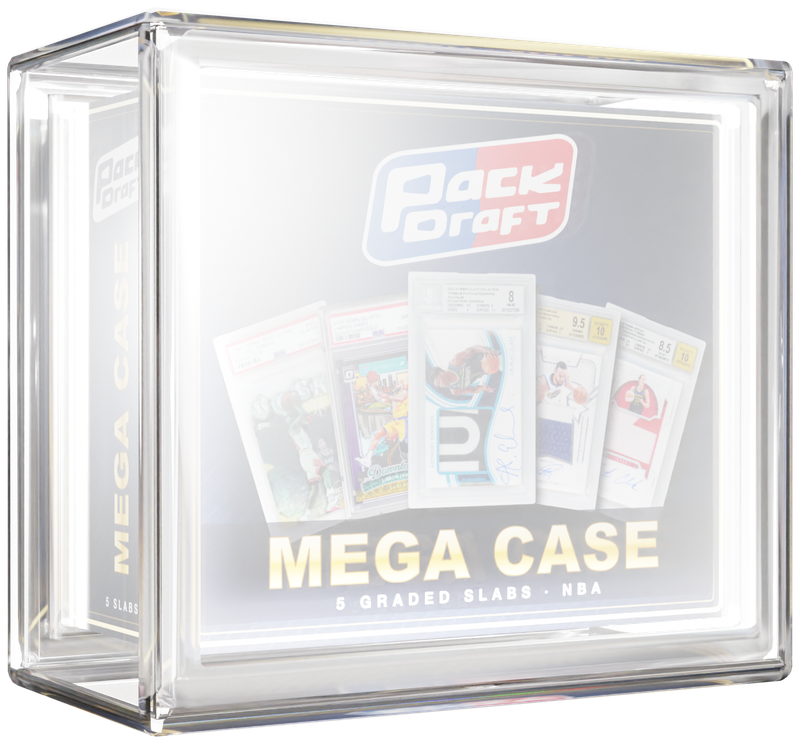
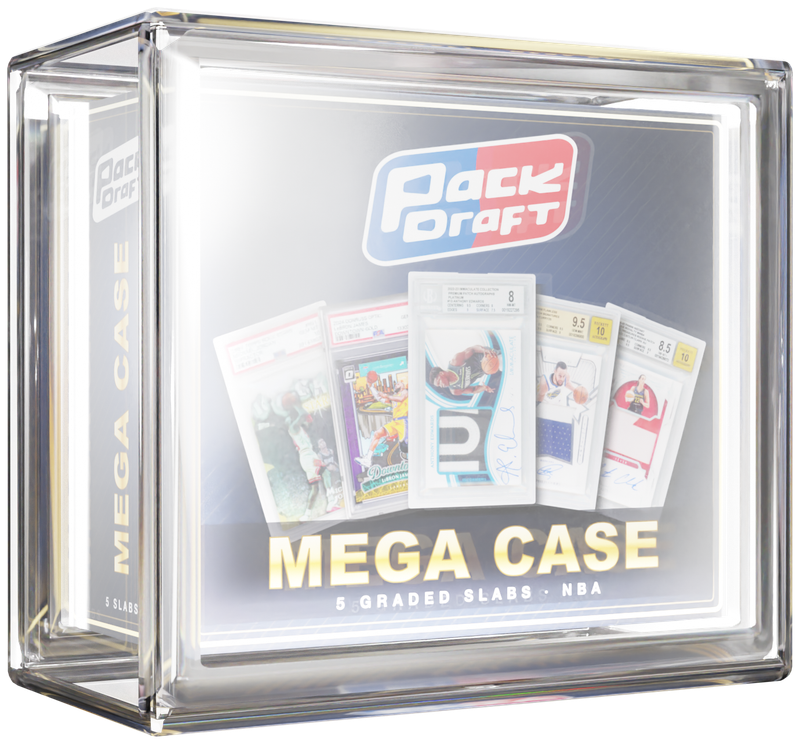
Mega Case: keep the frosted case but clear the panels so the box art reads

diff --git a/src/app/packs/VendingMachine.tsx b/src/app/packs/VendingMachine.tsx
@@ -26,7 +26,7 @@ function PackArt({ p, big, md, slabs }: { p: PackType; big?: boolean; md?: boole
   const [w, h] = artSize(p, big ? "big" : md ? "md" : "sm");
   return (
     // eslint-disable-next-line @next/next/no-img-element
-    <img src={`/packs/${p.id}.png?v=5`} alt={p.name} width={w} height={h} draggable={false} onError={() => setFailed(true)}
+    <img src={`/packs/${p.id}.png?v=6`} alt={p.name} width={w} height={h} draggable={false} onError={() => setFailed(true)}
       className="block select-none object-contain" style={{ width: w, height: h, filter: "drop-shadow(0 14px 18px rgba(0,0,0,.45))" }} />
   );
 }

diff --git a/scripts/mega-case/render.py b/scripts/mega-case/render.py
@@ -1,6 +1,6 @@
 # Renders the Mega Case cover from CASE.blend: re-unwraps the inner box into the 3×2 atlas from build-texture.mjs,
 # applies it and renders a transparent square PNG with the file's own camera.
-#   Blender -b CASE.blend -P scripts/mega-case/render.py -- <atlas.png> <out.png> [samples] [--glow 1.2] [--clear-acrylic] [--keep-comp] [--save]
+#   Blender -b CASE.blend -P scripts/mega-case/render.py -- <atlas.png> <out.png> [samples] [--glow 1.2] [--frost 0.35] [--clarity 0.6] [--clear-acrylic] [--keep-comp] [--save]
 import bpy, sys, os, glob
 
 argv = sys.argv[sys.argv.index("--") + 1:]
@@ -71,6 +71,26 @@ for name, rough in ((("Cube.006", 0.04), ("Card_Slab_v2_Slab_0.002", 0.02)) if "
     o = bpy.data.objects[name]
     for slot in o.material_slots: slot.material = acrylic("Case_Acrylic", rough)
     o.visible_shadow = False
+
+# --frost K: scale the frosted glass's built-in glow ("Base Light" / "Light Multiplier" in tint_dispersion_v2).
+# 1 = the file's original look; lower keeps the frosted edges but lets the box art show through the panels.
+if "--frost" in argv:
+    k = float(argv[argv.index("--frost") + 1])
+    m = bpy.data.materials.get("tint_dispersion_01")
+    for n in (m.node_tree.nodes if m else []):
+        if n.type == "GROUP":
+            for key in ("Base Light", "Light Multiplier"):
+                if key in n.inputs: n.inputs[key].default_value *= k
+
+# --clarity C (0–1): clears up the frosted panels (Slab.004) so the box art reads through, keeping the
+# frosted edges/normal detail. 0 = original. Lowers the blur roughness and the very high IOR (7.4) glare.
+if "--clarity" in argv:
+    c = float(argv[argv.index("--clarity") + 1])
+    m = bpy.data.materials.get("Slab.004")
+    b = next((n for n in m.node_tree.nodes if n.type == "BSDF_PRINCIPLED"), None) if m else None
+    if b:
+        b.inputs["Roughness"].default_value *= (1 - c)
+        b.inputs["IOR"].default_value = 1.5 + (b.inputs["IOR"].default_value - 1.5) * (1 - c)
 
 # The Windows-only HDRI in this file is missing; light the world with Blender's bundled studio HDRI instead.
 hdr = glob.glob(os.path.join(os.path.dirname(bpy.app.binary_path), "../Resources/*/datafiles/studiolights/world/studio.exr"))
